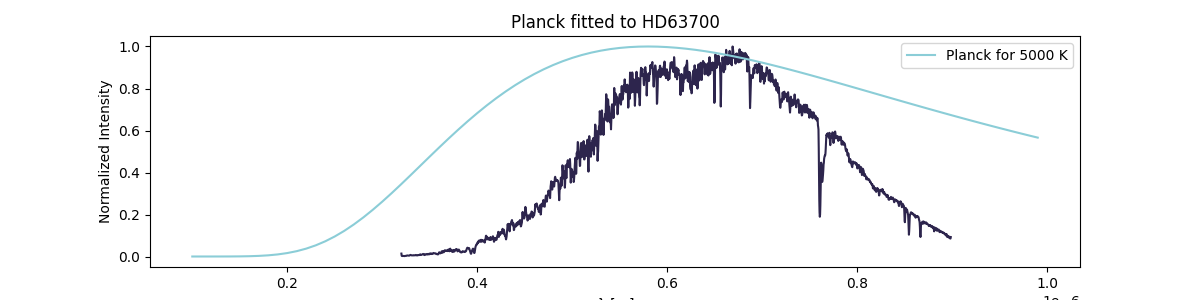
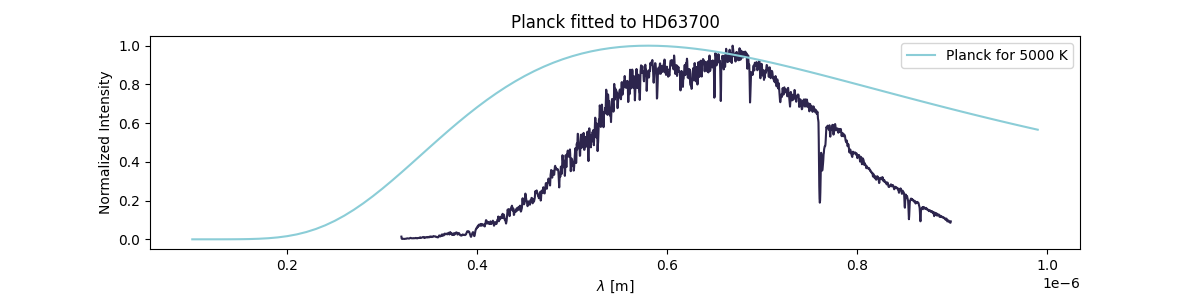
Planck corrected but still shit

diff --git a/DN4/planck_104731.py b/DN4/planck_104731.py
@@ -16,15 +16,15 @@ def planck(lamb, T):
 
 plt.figure(figsize=(12, 3))
 
-x, y = np.column_stack(np.genfromtxt("HD90852.txt"))
+x, y = np.column_stack(np.genfromtxt("HD104731.txt"))
 x = x * 1e-10
 wavelengths = np.arange(1e-7, 1e-6, 1e-8)
 plt.plot(x, y/np.max(y), c=c1)
-temp = 4500
+temp = 4400
 line2 = planck(wavelengths, temp)
 plt.plot(wavelengths, line2/np.max(line2), c=c3, label="Planck for {} K".format(temp))
 
-plt.title("Planck fitted to HD90852")
+plt.title("Planck fitted to HD104731")
 plt.xlabel(r"$\lambda$ [m]")
 plt.ylabel("Normalized Intensity")
 plt.legend()

diff --git a/DN4/planck_159876.py b/DN4/planck_159876.py
@@ -16,15 +16,15 @@ def planck(lamb, T):
 
 plt.figure(figsize=(12, 3))
 
-x, y = np.column_stack(np.genfromtxt("HD90852.txt"))
+x, y = np.column_stack(np.genfromtxt("HD159876.txt"))
 x = x * 1e-10
 wavelengths = np.arange(1e-7, 1e-6, 1e-8)
 plt.plot(x, y/np.max(y), c=c1)
-temp = 4500
+temp = 4700
 line2 = planck(wavelengths, temp)
 plt.plot(wavelengths, line2/np.max(line2), c=c3, label="Planck for {} K".format(temp))
 
-plt.title("Planck fitted to HD90852")
+plt.title("Planck fitted to HD159876")
 plt.xlabel(r"$\lambda$ [m]")
 plt.ylabel("Normalized Intensity")
 plt.legend()

diff --git a/DN4/planck_92305.py b/DN4/planck_92305.py
@@ -16,15 +16,15 @@ def planck(lamb, T):
 
 plt.figure(figsize=(12, 3))
 
-x, y = np.column_stack(np.genfromtxt("HD90852.txt"))
+x, y = np.column_stack(np.genfromtxt("HD92305.txt"))
 x = x * 1e-10
 wavelengths = np.arange(1e-7, 1e-6, 1e-8)
 plt.plot(x, y/np.max(y), c=c1)
-temp = 4500
+temp = 3700
 line2 = planck(wavelengths, temp)
 plt.plot(wavelengths, line2/np.max(line2), c=c3, label="Planck for {} K".format(temp))
 
-plt.title("Planck fitted to HD90852")
+plt.title("Planck fitted to HD92305")
 plt.xlabel(r"$\lambda$ [m]")
 plt.ylabel("Normalized Intensity")
 plt.legend()

diff --git a/DN4/planck_ltt.py b/DN4/planck_ltt.py
@@ -16,15 +16,15 @@ def planck(lamb, T):
 
 plt.figure(figsize=(12, 3))
 
-x, y = np.column_stack(np.genfromtxt("HD90852.txt"))
+x, y = np.column_stack(np.genfromtxt("LTT6248.txt"))
 x = x * 1e-10
 wavelengths = np.arange(1e-7, 1e-6, 1e-8)
 plt.plot(x, y/np.max(y), c=c1)
-temp = 4500
+temp = 5000
 line2 = planck(wavelengths, temp)
 plt.plot(wavelengths, line2/np.max(line2), c=c3, label="Planck for {} K".format(temp))
 
-plt.title("Planck fitted to HD90852")
+plt.title("Planck fitted to LTT6248")
 plt.xlabel(r"$\lambda$ [m]")
 plt.ylabel("Normalized Intensity")
 plt.legend()

diff --git a/DN4/planck_63700.py b/DN4/planck_63700.py
@@ -28,4 +28,5 @@ plt.title("Planck fitted to HD63700")
 plt.xlabel(r"$\lambda$ [m]")
 plt.ylabel("Normalized Intensity")
 plt.legend()
+plt.subplots_adjust(bottom=0.17)
 plt.show()

diff --git a/DN4/planck_82734.py b/DN4/planck_82734.py
@@ -28,4 +28,5 @@ plt.title("Planck fitted to HD82734")
 plt.xlabel(r"$\lambda$ [m]")
 plt.ylabel("Normalized Intensity")
 plt.legend()
+plt.subplots_adjust(bottom=0.17)
 plt.show()
